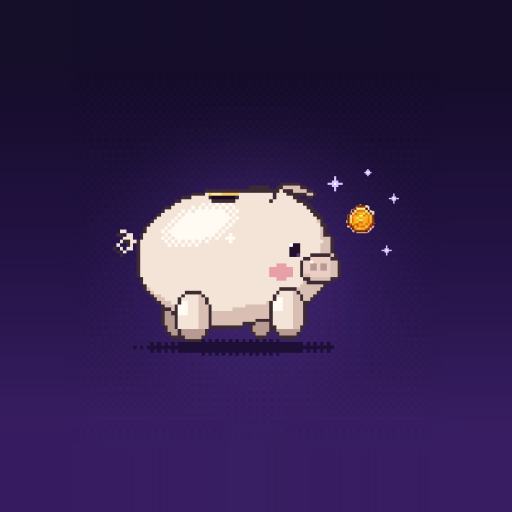
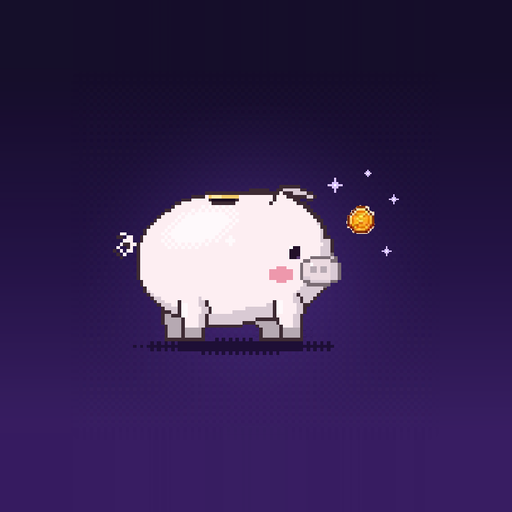
Add files via upload

diff --git a/sw.js b/sw.js
@@ -1,4 +1,4 @@
-const CACHE_NAME = "ledger-cache-v114";
+const CACHE_NAME = "ledger-cache-v116";
 const ASSETS = [
   "./",
   "./index.html",
